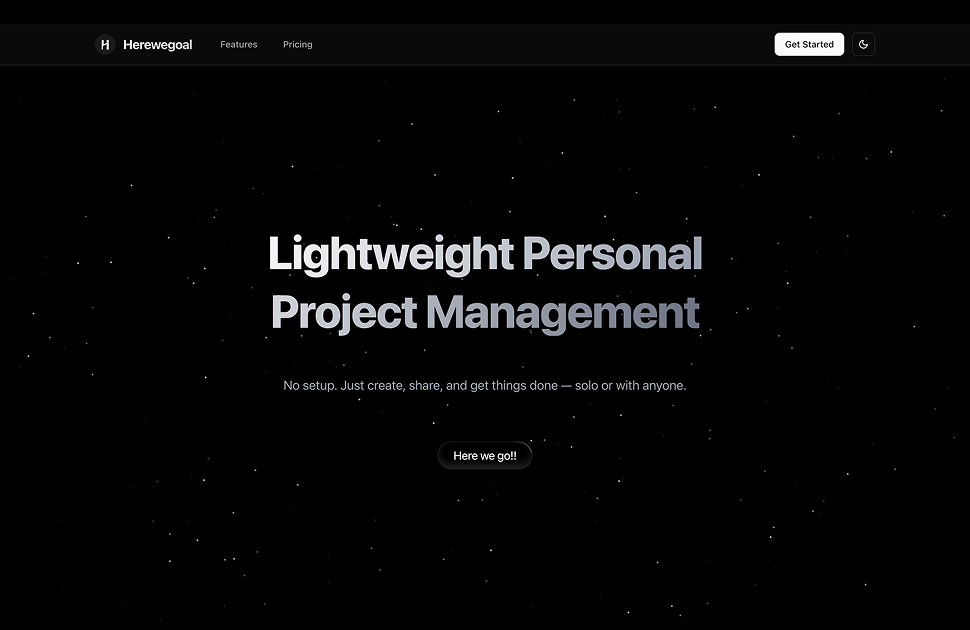
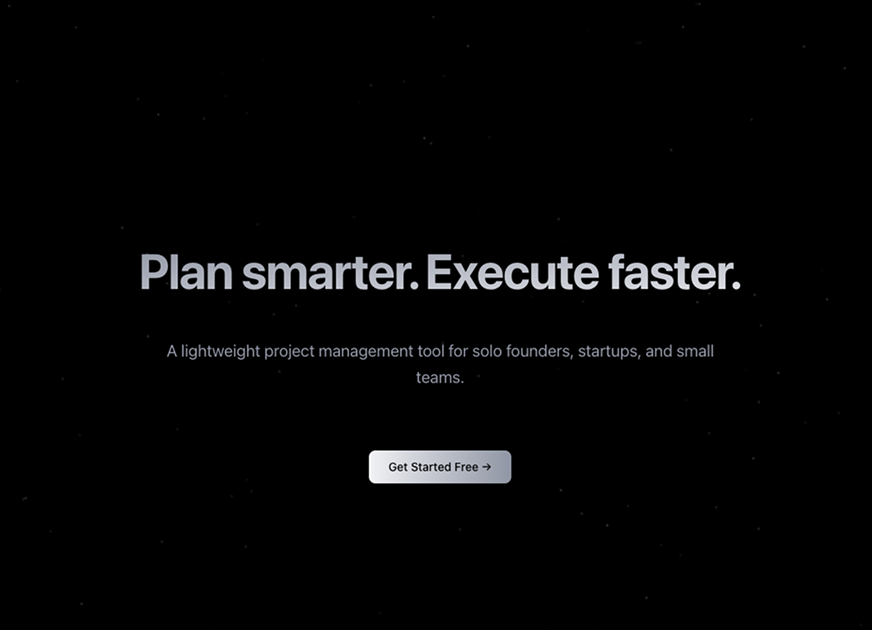
feat: Update metadata and OG image to reflect a more focused branding for solo founders, startups, and small teams

diff --git a/app/layout.tsx b/app/layout.tsx
@@ -15,20 +15,16 @@ const geistMono = Geist_Mono({
 });
 
 export const metadata: Metadata = {
-  title: 'Herewegoal — Project-Oriented Todoist for Students, Freelancers, and Solo Entrepreneurs',
-  description:
-    'Herewegoal is a lightweight project and task management tool inspired by Todoist—built for students, freelancers, and solo entrepreneurs. Organize, track, and deliver your projects with ease.',
+  title: 'Herewegoal — Plan smarter. Execute faster.',
+  description: 'A lightweight project management tool for solo founders, startups, and small teams.',
   keywords: [
-    'project management for students',
-    'freelancer project management',
-    'solo entrepreneur task manager',
-    'simple project tracking tool',
-    'minimalist project planner',
-    'todoist alternative',
-    'personal productivity workspace',
-    'calendar + project manager',
-    'lightweight project management app',
-    'task manager without login',
+    'project management for solo founders',
+    'lightweight project management tool',
+    'project management for startups',
+    'project management for small teams',
+    'project management tool for solo founders',
+    'project management tool for startups',
+    'project management tool for small teams',
   ],
   authors: [{ name: 'Herewegoal Team' }],
   creator: 'Herewegoal',
@@ -42,15 +38,14 @@ export const metadata: Metadata = {
     locale: 'en_US',
     url: 'https://herewegoal.com',
     siteName: 'Herewegoal',
-    title: 'Herewegoal — Project-Oriented Todoist for Students, Freelancers, and Solo Entrepreneurs',
-    description:
-      'Organize, track, and deliver your projects—Herewegoal is the project-oriented Todoist for students, freelancers, and solo entrepreneurs. No sign-up needed.',
+    title: 'Herewegoal — Plan smarter. Execute faster.',
+    description: 'A lightweight project management tool for solo founders, startups, and small teams.',
     images: [
       {
         url: 'https://herewegoal.com/og-image.png',
         width: 1200,
         height: 630,
-        alt: 'Herewegoal — Project-Oriented Todoist for Students, Freelancers, and Solo Entrepreneurs',
+        alt: 'Herewegoal — Plan smarter. Execute faster.',
       },
     ],
   },
